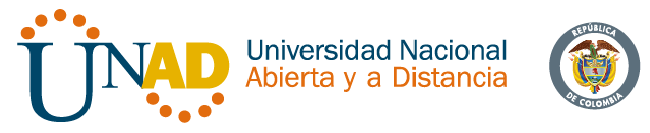
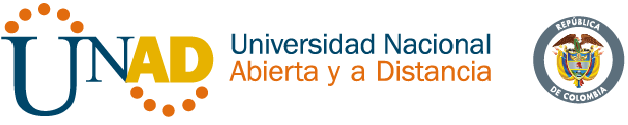
Version 1.11
Correccion en las imagenes Banner, imagen 1, imagen 2.

Changed region(s): [[0.0, 0.024, 0.7866, 0.936], [0.8169, 0.12, 0.9984, 0.84]]

diff --git a/css/style.css b/css/style.css
@@ -55,7 +55,7 @@ header{
 	margin:auto;
 	width: 1100px;
 	height: 300px;
-	background: url(../img/fondobanner.png) center center;
+	background-image:url(../img/banner.PNG);
 	border-radius:20px;
 	margin-top: 30px;
 }
@@ -212,7 +212,7 @@ text-decoration:none;
 	opacity: 0.1;
 	}
 	25%,45% {
-	background-image:url(../img/imagen2.JPG);
+	background-image:url(../img/imagen2.png);
 	opacity: 1;
 	}
 	46%, 49%{
